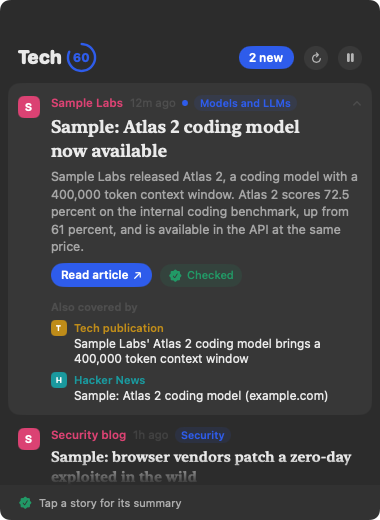
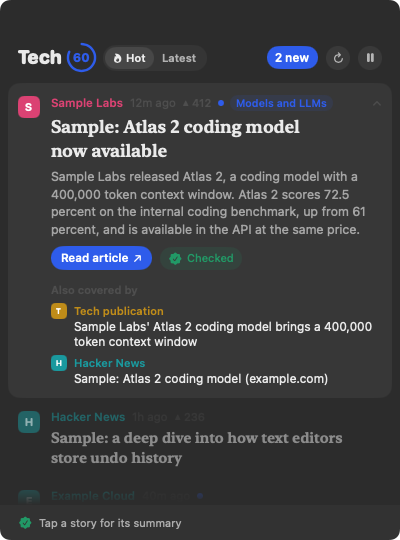
Tech60: Hot view, trending stories first (#22)
* Tech60: Hot view ranked by coverage, HN points, and Techmeme picks

* Tech60 docs: card screenshots

---------

diff --git a/tools/tech60/Sources/Tech60App/CardView.swift b/tools/tech60/Sources/Tech60App/CardView.swift
@@ -85,15 +85,17 @@ struct CardView: View {
     }
 
     private var header: some View {
-        HStack(alignment: .center, spacing: 10) {
+        HStack(alignment: .center, spacing: 8) {
             Wordmark()
-            Spacer(minLength: 8)
+            SortToggle(mode: $model.sortMode)
+            Spacer(minLength: 6)
             if model.newCount > 0 {
                 Text("\(model.newCount) new")
                     .font(.system(size: 12, weight: .semibold, design: .rounded))
                     .foregroundStyle(.white)
-                    .padding(.horizontal, 10).padding(.vertical, 4)
+                    .padding(.horizontal, 8).padding(.vertical, 4)
                     .background(Capsule().fill(Palette.accent))
+                    .fixedSize()
                     .help("\(model.newCount) new since you last looked")
             }
             Button { model.refreshNow() } label: {
@@ -190,6 +192,31 @@ struct CardView: View {
     }
 }
 
+/// Hot or Latest, as a small two-part switch.
+struct SortToggle: View {
+    @Binding var mode: AppModel.SortMode
+    var body: some View {
+        HStack(spacing: 0) {
+            ForEach(AppModel.SortMode.allCases, id: \.self) { m in
+                Button { withAnimation(.easeOut(duration: 0.15)) { mode = m } } label: {
+                    HStack(spacing: 3) {
+                        if m == .hot { Image(systemName: "flame.fill").font(.system(size: 9)) }
+                        Text(m.rawValue)
+                    }
+                    .font(.system(size: 11, weight: .semibold))
+                    .padding(.horizontal, 8).padding(.vertical, 4)
+                    .foregroundStyle(mode == m ? Color.primary : Color.secondary)
+                    .background(Capsule().fill(mode == m ? Color.primary.opacity(0.1) : .clear))
+                }
+                .buttonStyle(.plain)
+                .help(m == .hot ? "Stories many outlets and readers are talking about" : "Newest stories first")
+            }
+        }
+        .padding(2)
+        .background(Capsule().fill(Color.primary.opacity(0.05)))
+    }
+}
+
 /// "Tech" in rounded bold, "60" inside a dial: sixty words, at a glance.
 struct Wordmark: View {
     var body: some View {
@@ -253,6 +280,15 @@ struct StoryRow: View {
                     Text(Self.relative(story.displayDate))
                         .font(.system(size: 11.5))
                         .foregroundStyle(.tertiary)
+                    if let points = cluster.stories.compactMap(\.points).max(), points >= 20 {
+                        HStack(spacing: 2) {
+                            Image(systemName: "arrowtriangle.up.fill").font(.system(size: 7))
+                            Text("\(points)")
+                        }
+                        .font(.system(size: 11, weight: .medium))
+                        .foregroundStyle(.tertiary)
+                        .help("\(points) points on Hacker News")
+                    }
                     if isNew {
                         Circle().fill(Palette.accent).frame(width: 6, height: 6)
                             .accessibilityLabel("New")

diff --git a/tools/tech60/Sources/Tech60Core/Clustering.swift b/tools/tech60/Sources/Tech60Core/Clustering.swift
@@ -91,16 +91,44 @@ public enum Clustering {
     }
 }
 
+/// How hot a story is right now. Heat comes from signals other people create, not from the clock:
+/// several outlets covering it, Hacker News points and comments, Techmeme picking it, or the company posting
+/// it themselves. Heat then cools with age, like Hacker News's own ranking.
+public enum Hotness {
+    /// Heat before cooling. 1 means no signal at all (one outlet, no discussion).
+    public static func heat(_ cluster: StoryCluster, topics: [Topic] = []) -> Double {
+        let points = Double(cluster.stories.compactMap(\.points).max() ?? 0)
+        let comments = Double(cluster.stories.compactMap(\.comments).max() ?? 0)
+        var h = 1.0
+        h += Double(cluster.sourceCount - 1) * 2.5
+        h += log10(1 + points) * 2       // 100 points adds 4, 1,000 adds 6
+        h += log10(1 + comments)
+        if cluster.stories.contains(where: { $0.sourceID == "techmeme" }) { h += 1.5 }   // an editor picked it
+        if cluster.stories.contains(where: \.isPrimary) { h += 1.5 }
+        if !topics.isEmpty, cluster.stories.contains(where: { !Topics.matches($0, in: topics).isEmpty }) { h *= 1.5 }
+        return h
+    }
+
+    public static func score(_ cluster: StoryCluster, topics: [Topic] = [], now: Date = Date()) -> Double {
+        let hours = max(0, now.timeIntervalSince(cluster.newestDate) / 3600)
+        return heat(cluster, topics: topics) / pow(hours + 2, 1.3)
+    }
+
+    /// The hottest rows, hottest first. Rows with little heat are left out; if that leaves too few,
+    /// the best of the rest fill in so the card is never nearly empty.
+    public static func hot(_ clusters: [StoryCluster], topics: [Topic] = [], now: Date = Date(),
+                           limit: Int = 25, minimumHeat: Double = 3, minimumCount: Int = 8) -> [StoryCluster] {
+        let ranked = clusters.sorted { score($0, topics: topics, now: now) > score($1, topics: topics, now: now) }
+        let hot = ranked.filter { heat($0, topics: topics) >= minimumHeat }
+        if hot.count >= minimumCount { return Array(hot.prefix(limit)) }
+        return Array(ranked.prefix(max(minimumCount, hot.count)).prefix(limit))
+    }
+}
+
 /// Picks the few stories worth a notification.
 public enum Brief {
-    /// Stories covered by more sources, matching a followed topic, or from the company itself rank higher.
     public static func score(_ cluster: StoryCluster, topics: [Topic], now: Date = Date()) -> Double {
-        let matched = cluster.stories.contains { !Topics.matches($0, in: topics).isEmpty }
-        let hours = max(0, now.timeIntervalSince(cluster.newestDate) / 3600)
-        return Double(cluster.sourceCount - 1) * 2
-            + (matched ? 3 : 0)
-            + (cluster.stories.contains(where: \.isPrimary) ? 1 : 0)
-            - hours / 12
+        Hotness.score(cluster, topics: topics, now: now)
     }
 
     public static func pick(_ clusters: [StoryCluster], topics: [Topic], since: Date, now: Date = Date(), count: Int = 5) -> [StoryCluster] {

diff --git a/tools/tech60/Sources/Tech60Core/Demo.swift b/tools/tech60/Sources/Tech60Core/Demo.swift
@@ -13,15 +13,18 @@ public enum Demo {
         let summary2 = "Example Cloud now lets developers run scheduled jobs in 12 regions, as often as once a minute, billed per second."
 
         func story(_ id: String, _ source: String, _ title: String, minutesAgo: Double, seenMinutesAgo: Double,
-                   text: String = "", summary: String? = nil, primary: Bool) -> Story {
+                   text: String = "", summary: String? = nil, primary: Bool, points: Int? = nil, comments: Int? = nil) -> Story {
             var state: SummaryState = .none
             if let summary {
                 let check = SummaryChecker.check(summary: summary, source: title + "\n" + text)
                 state = check.passed ? .checked(text: summary, evidence: check.evidence) : .withheld(reason: check.reason ?? "")
             }
-            return Story(id: id, sourceID: source, sourceName: source, title: title,
-                         url: URL(string: "https://example.com/\(id)")!, published: now.addingTimeInterval(-minutesAgo * 60),
-                         firstSeen: now.addingTimeInterval(-seenMinutesAgo * 60), sourceText: text, isPrimary: primary, summary: state)
+            var s = Story(id: id, sourceID: source, sourceName: source, title: title,
+                          url: URL(string: "https://example.com/\(id)")!, published: now.addingTimeInterval(-minutesAgo * 60),
+                          firstSeen: now.addingTimeInterval(-seenMinutesAgo * 60), sourceText: text, isPrimary: primary, summary: state)
+            s.points = points
+            s.comments = comments
+            return s
         }
 
         return Snapshot(stories: [
@@ -31,11 +34,12 @@ public enum Demo {
                   text: source2, summary: summary2, primary: true),
             story("s1b", "Tech publication", "Sample Labs' Atlas 2 coding model brings a 400,000 token context window",
                   minutesAgo: 8, seenMinutesAgo: 6, primary: false),
-            story("s1c", "Hacker News", "Sample: Atlas 2 coding model (example.com)", minutesAgo: 5, seenMinutesAgo: 4, primary: false),
+            story("s1c", "Hacker News", "Sample: Atlas 2 coding model (example.com)", minutesAgo: 5, seenMinutesAgo: 4, primary: false,
+                  points: 412, comments: 188),
             story("s5", "Security blog", "Sample: browser vendors patch a zero-day exploited in the wild", minutesAgo: 70, seenMinutesAgo: 300,
                   primary: false),
             story("s3", "Hacker News", "Sample: a deep dive into how text editors store undo history", minutesAgo: 90, seenMinutesAgo: 300,
-                  primary: false),
+                  primary: false, points: 236, comments: 71),
             story("s4", "Tech publication", "Sample: chipmaker reports quarterly results", minutesAgo: 130, seenMinutesAgo: 300,
                   primary: false),
         ], lastViewed: now.addingTimeInterval(-60 * 60), status: [:])

diff --git a/tools/tech60/Tests/Tech60CoreTests/HotTests.swift b/tools/tech60/Tests/Tech60CoreTests/HotTests.swift
@@ -1,0 +1,44 @@
+import XCTest
+@testable import Tech60Core
+
+final class HotTests: XCTestCase {
+    private func s(_ id: String, _ source: String, _ title: String, hoursAgo: Double = 1, points: Int? = nil, primary: Bool = false) -> Story {
+        var story = Story(id: id, sourceID: source, sourceName: source, title: title, url: URL(string: "https://example.com/\(id)")!,
+                          published: Date().addingTimeInterval(-hoursAgo * 3600), firstSeen: Date(), sourceText: "", isPrimary: primary)
+        story.points = points
+        return story
+    }
+
+    func testWidelyCoveredAndDiscussedBeatsQuietButNewer() {
+        let clusters = Clustering.cluster([
+            s("a", "openai", "Introducing GPT-6 with a 2 million token context window", hoursAgo: 4, primary: true),
+            s("b", "verge", "OpenAI launches GPT-6 with a 2 million token context window", hoursAgo: 3),
+            s("c", "hn", "GPT-6 (openai.com)", hoursAgo: 3, points: 900),
+            s("d", "ars", "A review of a mid-range office chair", hoursAgo: 0.2),
+            s("e", "hn", "Show HN: My weekend Forth interpreter", hoursAgo: 0.5, points: 4),
+        ])
+        let hot = Hotness.hot(clusters, minimumCount: 1)
+        XCTAssertEqual(hot.first?.lead.id, "a")
+        XCTAssertFalse(hot.contains { $0.lead.id == "d" }, "one outlet, no discussion: not trending")
+    }
+
+    func testFillsInWhenLittleIsHot() {
+        let clusters = Clustering.cluster([s("a", "ars", "Chair review"), s("b", "verge", "Phone case review")])
+        XCTAssertEqual(Hotness.hot(clusters, minimumCount: 8).count, 2)
+    }
+
+    func testHNPointsCarryOverWhenHNLinksToAStoryWeHave() {
+        let openai = Source(id: "openai", name: "OpenAI", url: nil, isPrimary: true)
+        let hn = Source(id: "hn", name: "Hacker News", kind: .hackerNews, url: nil, isPrimary: false)
+        let now = Date()
+        let first = StoryMerge.merge(existing: [], incoming: StoryMerge.stories(
+            from: [FeedItem(id: "1", title: "Introducing GPT-6", link: URL(string: "https://openai.com/gpt-6"), published: now, text: "")],
+            source: openai, now: now), now: now)
+        let merged = StoryMerge.merge(existing: first, incoming: StoryMerge.stories(
+            from: [FeedItem(id: "99", title: "GPT-6", link: URL(string: "https://openai.com/gpt-6/"), published: now, text: "", points: 812, comments: 400)],
+            source: hn, now: now), now: now)
+        XCTAssertEqual(merged.count, 1)
+        XCTAssertEqual(merged[0].title, "Introducing GPT-6", "the company's headline is kept")
+        XCTAssertEqual(merged[0].points, 812)
+    }
+}

diff --git a/tools/tech60/Sources/Tech60Core/Merge.swift b/tools/tech60/Sources/Tech60Core/Merge.swift
@@ -18,10 +18,13 @@ public enum StoryMerge {
     public static func stories(from items: [FeedItem], source: Source, now: Date) -> [Story] {
         items.compactMap { item in
             guard let url = item.link else { return nil }
-            return Story(id: "\(source.id)|\(item.id)", sourceID: source.id, sourceName: source.name, title: item.title,
-                         url: url, published: item.published, firstSeen: now,
-                         sourceText: source.isPrimary ? item.text : "", isPrimary: source.isPrimary,
-                         summary: source.isPrimary ? .pending : .none)
+            var story = Story(id: "\(source.id)|\(item.id)", sourceID: source.id, sourceName: source.name, title: item.title,
+                              url: url, published: item.published, firstSeen: now,
+                              sourceText: source.isPrimary || source.kind == .hackerNews ? item.text : "", isPrimary: source.isPrimary,
+                              summary: source.isPrimary ? .pending : .none)
+            story.points = item.points
+            story.comments = item.comments
+            return story
         }
     }
 
@@ -35,6 +38,13 @@ public enum StoryMerge {
             let key = normalized(story.url)
             if let old = byID[story.id] ?? urlToID[key].flatMap({ byID[$0] }) {
                 var updated = old
+                // An HN post linking to a story we already have: keep its points as a heat signal.
+                if let points = story.points { updated.points = max(points, old.points ?? 0) }
+                if let comments = story.comments { updated.comments = max(comments, old.comments ?? 0) }
+                if old.sourceID != story.sourceID {
+                    byID[old.id] = updated
+                    continue
+                }
                 updated.title = story.title
                 updated.published = story.published ?? old.published
                 if story.isPrimary, story.sourceText != old.sourceText, story.sourceText.count > old.sourceText.count {

diff --git a/tools/tech60/Sources/Tech60App/AppModel.swift b/tools/tech60/Sources/Tech60App/AppModel.swift
@@ -19,6 +19,12 @@ final class AppModel: ObservableObject {
             rebuild()
         }
     }
+    /// Hot ranks by heat (coverage, Hacker News, Techmeme) and hides quiet stories; Latest is newest first.
+    @Published var sortMode: SortMode {
+        didSet { UserDefaults.standard.set(sortMode.rawValue, forKey: "sortMode") }
+    }
+    enum SortMode: String, CaseIterable { case hot = "Hot", latest = "Latest" }
+
     /// Hour of the daily brief (0-23), or nil when it's off.
     @Published var briefHour: Int? {
         didSet {
@@ -49,6 +55,7 @@ final class AppModel: ObservableObject {
             sources = DefaultSources.all
         }
         summariesEnabled = defaults.object(forKey: "summariesEnabled") as? Bool ?? true
+        sortMode = SortMode(rawValue: defaults.string(forKey: "sortMode") ?? "") ?? .hot
         if isDemo {
             followedTopicIDs = ["models", "security"]
             customTopics = []
@@ -94,6 +101,7 @@ final class AppModel: ObservableObject {
             return ids.compactMap { id in clusters.first { $0.id == id || $0.stories.contains { $0.id == id } } }
         }
         let topics = followedTopics
+        if sortMode == .hot { return Hotness.hot(clusters, topics: topics) }
         guard !topics.isEmpty else { return clusters }
         let (on, off) = clusters.reduce(into: ([StoryCluster](), [StoryCluster]())) { acc, c in
             if topicNames(for: c).isEmpty { acc.1.append(c) } else { acc.0.append(c) }

diff --git a/tools/tech60/Sources/Tech60Core/HTTP.swift b/tools/tech60/Sources/Tech60Core/HTTP.swift
@@ -35,6 +35,8 @@ public enum HackerNews {
         let deleted: Bool?
         /// The author's own post, for Show HN and Ask HN.
         let text: String?
+        let score: Int?
+        let descendants: Int?
     }
 
     public static func topStories(count: Int = 20, client: HTTPClient) async throws -> [FeedItem] {
@@ -52,7 +54,8 @@ public enum HackerNews {
                               item.dead != true, item.deleted != true, let title = item.title else { return (id, nil) }
                         let link = item.url.flatMap(URL.init(string:)) ?? URL(string: "https://news.ycombinator.com/item?id=\(id)")
                         let date = item.time.map { Date(timeIntervalSince1970: TimeInterval($0)) }
-                        return (id, FeedItem(id: String(id), title: title, link: link, published: date, text: HTMLText.plain(item.text ?? "")))
+                        return (id, FeedItem(id: String(id), title: title, link: link, published: date, text: HTMLText.plain(item.text ?? ""),
+                                                     points: item.score, comments: item.descendants))
                     }
                 }
                 var out: [(Int, FeedItem)] = []

diff --git a/tools/tech60/Sources/Tech60Core/FeedParser.swift b/tools/tech60/Sources/Tech60Core/FeedParser.swift
@@ -10,13 +10,18 @@ public struct FeedItem: Equatable, Sendable {
     public var published: Date?
     /// Plain text from the feed: the longer of its summary and its full content.
     public var text: String
+    /// Hacker News points and comment count, when the story came from there.
+    public var points: Int?
+    public var comments: Int?
 
-    public init(id: String, title: String, link: URL?, published: Date?, text: String) {
+    public init(id: String, title: String, link: URL?, published: Date?, text: String, points: Int? = nil, comments: Int? = nil) {
         self.id = id
         self.title = title
         self.link = link
         self.published = published
         self.text = text
+        self.points = points
+        self.comments = comments
     }
 }
 

diff --git a/tools/tech60/Sources/Tech60Core/Models.swift b/tools/tech60/Sources/Tech60Core/Models.swift
@@ -59,6 +59,9 @@ public struct Story: Codable, Hashable, Identifiable, Sendable {
     public var sourceText: String
     public var isPrimary: Bool
     public var summary: SummaryState
+    /// Hacker News points and comments: from the HN listing itself, or from an HN post linking to this story.
+    public var points: Int?
+    public var comments: Int?
 
     public init(id: String, sourceID: String, sourceName: String, title: String, url: URL, published: Date?,
                 firstSeen: Date, sourceText: String, isPrimary: Bool, summary: SummaryState = .none) {

diff --git a/tools/tech60/Sources/Tech60App/AppDelegate.swift b/tools/tech60/Sources/Tech60App/AppDelegate.swift
@@ -7,7 +7,7 @@ import UserNotifications
 /// The floating news card: a panel that never takes focus from what you're typing in.
 @MainActor
 func makeCardPanel(model: AppModel) -> NSPanel {
-    let panel = NSPanel(contentRect: NSRect(x: 0, y: 0, width: 380, height: 520),
+    let panel = NSPanel(contentRect: NSRect(x: 0, y: 0, width: 400, height: 540),
                         styleMask: [.nonactivatingPanel, .titled, .closable, .resizable, .fullSizeContentView],
                         backing: .buffered, defer: false)
     panel.title = "Tech60"

diff --git a/tools/tech60/README.md b/tools/tech60/README.md
@@ -11,6 +11,7 @@ Tech news in 60 words, from the source itself, and checked. A small Mac app that
 - **Short summaries from official sources only:** announcements from AI labs and developer platforms (OpenAI, Google DeepMind, Google AI, GitHub Changelog, Apple Developer, Hugging Face) get a summary of up to 60 words, written by Apple's on-device model.
 - **Every summary is checked before you see it.** Plain code confirms that every number and name in the summary appears in the source, and that every sentence is backed by a sentence in the source. One failure and the summary is withheld, so you see the headline only. Click **Checked** to see each summary sentence next to the source text behind it.
 - **Tap any story for its summary.** Official announcements are summarized in the background. Publisher and Hacker News stories are summarized only when you tap them, on your Mac, with the same checks. **Read article** opens the original.
+- **Hot or Latest.** Hot (the default) ranks stories by heat: how many outlets cover it, Hacker News points and comments, and whether Techmeme picked it, cooling with age. Quiet single-outlet stories are left out. Latest shows everything, newest first.
 - **One row per story, not per source.** When the company's post, The Verge, and Hacker News all cover the same launch, you see one row with the other sources tucked inside.
 - **Topics you follow.** Pick topics like AI agents, Apple, or chips (or add your own words). Matching stories move to the top and the rest are dimmed.
 - **Daily brief.** Pick a time and get one notification with the five stories that matter most since your last brief. Click it to see them on the card.

diff --git a/tools/tech60/CHANGELOG.md b/tools/tech60/CHANGELOG.md
@@ -3,6 +3,10 @@
 
 ## Unreleased
 
+- Hot view (default): stories ranked by coverage, Hacker News points and comments, and Techmeme picks; quiet stories hidden. Latest view keeps newest first.
+- Hacker News points show on each row, and carry over when HN links to a story Tech60 already has.
+- Show HN and Ask HN posts now keep the author's text for summaries.
+
 - Same news from several sources is grouped into one row.
 - Follow topics (built-in or your own words); matching stories go first and the rest are dimmed.
 - Daily brief notification at a time you pick, with the top five stories since the last one.
